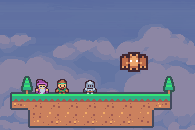
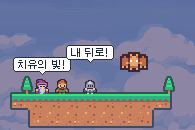
기획: 말풍선 대사, 기술 +3·+6·+9 추가 효과, '반드시 성공' 표시 제거
- 상황마다 기본 대사가 말풍선으로 저절로 뜨고, 상황별로 고치거나 끌 수 있음 (RP_교류.md 1-1, DialogueB)
- 전투·탐사 장면에 말풍선 예시
- 기술 레벨 +3/+6/+9마다 추가 효과 (장비_상세.md, 기술 시안)
- 확률이 없으므로 강화 화면의 '반드시 성공' 표시 삭제

Claude-Session: https://claude.ai/code/session_011wjmSW2J3FkWighjJoEfMG

Changed region(s): [[0.0615, 0.3385, 0.5846, 0.5846]]

diff --git a/기획/시안/화면/DialogueB.dc.html b/기획/시안/화면/DialogueB.dc.html
@@ -1,0 +1,125 @@
+<!doctype html>
+<html lang="ko">
+<head>
+<meta charset="utf-8">
+<title>B안 · 말풍선 대사</title>
+<script src="./support.js"></script>
+</head>
+<body>
+<x-dc>
+<helmet>
+<link rel="preconnect" href="https://fonts.googleapis.com">
+<link href="https://fonts.googleapis.com/css2?family=Gowun+Batang:wght@700&amp;family=Noto+Sans+KR:wght@400;500;700&amp;display=swap" rel="stylesheet">
+<style>
+@font-face{font-family:'Galmuri11';src:url(/_blob/3d7d41766d6fe4ab874aa2af55b7545e) format('woff2');font-weight:400;font-display:swap}@font-face{font-family:'Galmuri11';src:url(/_blob/8457e27020c70d82c86e28af69c16a56) format('woff2');font-weight:700;font-display:swap}@font-face{font-family:'Galmuri14';src:url(/_blob/b67fdc63fa51b5e3d8ffaa0aa94ab0fc) format('woff2');font-weight:100 900;font-display:swap}body{-webkit-font-smoothing:none}button,input,select,textarea{font-family:inherit}
+
+body{margin:0}
+a{color:#8CC4F5}a:hover{color:#B8DBFA}
+</style>
+</helmet>
+<div style="width: 390px; height: 844px; box-sizing: border-box; background: #10161F; font-family: 'Galmuri11', 'Noto Sans KR', system-ui, sans-serif; color: #E8EDF4; display: flex; flex-direction: column; overflow: hidden">
+  <header style="height: 52px; box-sizing: border-box; padding: 0 6px; display: flex; align-items: center; gap: 2px; border-bottom: 1px solid #263243">
+    <a href="SettingsB.dc.html" aria-label="뒤로" style="width: 44px; height: 44px; display: flex; align-items: center; justify-content: center; color: #E8EDF4">
+      <svg width="22" height="22" viewBox="0 0 24 24" fill="none" stroke="currentColor" stroke-width="2" aria-hidden="true"><path d="M15 5 L8 12 L15 19"></path></svg></a>
+    <span style="font-family: 'Galmuri14', 'Galmuri11', sans-serif; font-size: 19px; font-weight: 700">말풍선 대사</span>
+  </header>
+
+  <main style="flex: 1; padding: 12px 14px; display: flex; flex-direction: column; gap: 10px; overflow: hidden">
+    <div style="background: #151D29; border: 1px solid #263243; border-radius: 12px; padding: 0 14px">
+      <sc-for list="{{masters}}" as="m" hint-placeholder-count="2">
+        <button type="button" role="switch" aria-checked="{{m.on}}" onClick="{{m.flip}}" style="width: 100%; min-height: 48px; display: flex; justify-content: space-between; align-items: center; gap: 12px; border: none; border-top: {{m.line}}; background: transparent; color: #E8EDF4; text-align: left; padding: 4px 0; cursor: pointer">
+          <span style="font-size: 14px; white-space: nowrap">{{m.label}}</span>
+          <span aria-hidden="true" style="width: 44px; height: 26px; flex-shrink: 0; border-radius: 13px; background: {{m.track}}; position: relative"><span style="position: absolute; top: 3px; left: {{m.knob}}; width: 20px; height: 20px; border-radius: 10px; background: #FFFFFF"></span></span>
+        </button>
+      </sc-for>
+    </div>
+
+    <div role="tablist" aria-label="상황 묶음" style="display: grid; grid-template-columns: repeat(3, minmax(0, 1fr)); gap: 6px">
+      <sc-for list="{{tabs}}" as="t" hint-placeholder-count="3">
+        <button type="button" role="tab" aria-selected="{{t.on}}" onClick="{{t.pick}}" style="min-height: 40px; border-radius: 8px; border: 1px solid {{t.border}}; background: {{t.bg}}; color: #E8EDF4; font-size: 13px; font-weight: 700; cursor: pointer; white-space: nowrap">{{t.label}}</button>
+      </sc-for>
+    </div>
+
+    <section aria-label="대사 목록" style="background: #151D29; border: 1px solid #263243; border-radius: 12px; padding: 2px 12px; display: flex; flex-direction: column; flex: 1; overflow: hidden">
+      <sc-for list="{{rows}}" as="r" hint-placeholder-count="6">
+        <div style="border-bottom: 1px solid #263243; padding: 8px 0; display: flex; flex-direction: column; gap: 6px; opacity: {{r.dim}}">
+          <div style="display: flex; justify-content: space-between; align-items: center; gap: 8px">
+            <span style="display: flex; align-items: center; gap: 6px; min-width: 0">
+              <sc-if value="{{r.hasImg}}" hint-placeholder-val="{{ false }}"><img src="{{r.img}}" alt="" width="20" height="20" style="image-rendering: pixelated"></sc-if>
+              <span style="font-size: 13px; font-weight: 700; white-space: nowrap">{{r.when}}</span>
+              <sc-if value="{{r.edited}}" hint-placeholder-val="{{ false }}"><span style="font-size: 11px; color: #F3D08A; white-space: nowrap">고침</span></sc-if>
+            </span>
+            <button type="button" role="switch" aria-checked="{{r.on}}" aria-label="{{r.when}} 말풍선" onClick="{{r.flip}}" style="width: 44px; height: 26px; flex-shrink: 0; border: none; padding: 0; border-radius: 13px; background: {{r.track}}; position: relative; cursor: pointer"><span style="position: absolute; top: 3px; left: {{r.knob}}; width: 20px; height: 20px; border-radius: 10px; background: #FFFFFF"></span></button>
+          </div>
+          <input type="text" value="{{r.text}}" onChange="{{r.edit}}" maxlength="20" aria-label="{{r.when}} 대사" style="min-height: 38px; box-sizing: border-box; border-radius: 8px; border: 1px solid #3A4658; background: #1B2433; color: #E8EDF4; font-size: 13px; padding: 0 10px">
+        </div>
+      </sc-for>
+    </section>
+  </main>
+
+  <nav aria-label="주 메뉴" style="height: 64px; background: #151D29; border-top: 1px solid #263243; display: grid; grid-template-columns: repeat(5, minmax(0, 1fr))">
+    <a href="HomeB.dc.html" style="display: flex; flex-direction: column; align-items: center; justify-content: center; gap: 3px; font-size: 12px; color: #A7B3C2; text-decoration: none">
+      <svg width="22" height="22" viewBox="0 0 24 24" fill="none" stroke="currentColor" stroke-width="2" aria-hidden="true"><path d="M3 11 L12 4 L21 11"></path><path d="M5 10 V20 H19 V10"></path></svg>집</a>
+    <a href="ExpeditionB.dc.html" style="display: flex; flex-direction: column; align-items: center; justify-content: center; gap: 3px; font-size: 12px; color: #A7B3C2; text-decoration: none">
+      <svg width="22" height="22" viewBox="0 0 24 24" fill="none" stroke="currentColor" stroke-width="2" aria-hidden="true"><path d="M12 3 V15"></path><path d="M7 10 L12 15 L17 10"></path><path d="M4 20 H20"></path></svg>원정</a>
+    <a href="GearB.dc.html" style="display: flex; flex-direction: column; align-items: center; justify-content: center; gap: 3px; font-size: 12px; color: #A7B3C2; text-decoration: none">
+      <svg width="22" height="22" viewBox="0 0 24 24" fill="none" stroke="currentColor" stroke-width="2" aria-hidden="true"><path d="M12 3 L19 6 V12 C19 16 16 19 12 21 C8 19 5 16 5 12 V6 Z"></path></svg>장비</a>
+    <a href="SocialB.dc.html" style="display: flex; flex-direction: column; align-items: center; justify-content: center; gap: 3px; font-size: 12px; color: #A7B3C2; text-decoration: none">
+      <svg width="22" height="22" viewBox="0 0 24 24" fill="none" stroke="currentColor" stroke-width="2" aria-hidden="true"><circle cx="9" cy="8" r="3"></circle><path d="M3 19 C3 15 6 13 9 13 C12 13 15 15 15 19"></path><circle cx="17" cy="9" r="2.5"></circle><path d="M16 13.5 C19 13.5 21 15.5 21 19"></path></svg>교류</a>
+    <a href="#market" style="display: flex; flex-direction: column; align-items: center; justify-content: center; gap: 3px; font-size: 12px; color: #A7B3C2; text-decoration: none">
+      <svg width="22" height="22" viewBox="0 0 24 24" fill="none" stroke="currentColor" stroke-width="2" aria-hidden="true"><path d="M4 8 H20 L18 20 H6 Z"></path><path d="M9 8 V6 A3 3 0 0 1 15 6 V8"></path></svg>거래소</a>
+  </nav>
+</div>
+</x-dc>
+<script type="text/x-dc" data-dc-script data-props='{"$preview":{"width":390,"height":844}}'>
+class Component extends DCLogic {
+  constructor(props) {
+    super(props);
+    this.state = { tab: 'battle', mine: true, others: true, off: {}, text: {} };
+  }
+  renderVals() {
+    const B = '/_blob/';
+    const st = this.state;
+    const defs = {
+      battle: [
+        { id: 'start', when: '전투 시작', text: '가 보자!' },
+        { id: 'aim', when: '조준 사격', img: B + 'b133920c0637dd17a05b1e3b3be43417', text: '한 발이면 돼.' },
+        { id: 'rapid', when: '연사', img: B + '4f2083e560e2a0725ab09c4fc0b8cfa4', text: '쏟아 붓는다!' },
+        { id: 'pierce', when: '관통 화살', img: B + '4beb5d4ca18f0341931aa0c52f420782', text: '줄 서 있네?' },
+        { id: 'low', when: '생명력 30% 아래', text: '조금 위험해…' },
+        { id: 'healed', when: '치유를 받았을 때', text: '고마워!' },
+        { id: 'win', when: '이겼을 때', text: '다음 폭풍도 같이!' }
+      ],
+      explore: [
+        { id: 'go', when: '탐사 출발', text: '오늘은 어디까지?' },
+        { id: 'meet', when: '적을 만났을 때', text: '저기다!' },
+        { id: 'find', when: '좋은 장비를 찾았을 때', text: '이건 놓칠 수 없지.' },
+        { id: 'gate', when: '관문에 닿았을 때', text: '폭풍이 거세졌어.' }
+      ],
+      island: [
+        { id: 'hello', when: '손님이 왔을 때', text: '어서 와!' },
+        { id: 'visit', when: '남의 섬에 갔을 때', text: '실례할게요~' },
+        { id: 'bye', when: '섬을 떠날 때', text: '또 올게!' }
+      ]
+    };
+    const sw = (on) => ({ track: on ? '#3D86C6' : '#3A4658', knob: on ? '21px' : '3px' });
+    const rows = defs[st.tab].map((d) => {
+      const on = !st.off[d.id];
+      const txt = st.text[d.id] !== undefined ? st.text[d.id] : d.text;
+      return Object.assign({ when: d.when, img: d.img || '', hasImg: !!d.img, on: on, dim: on && st.mine ? '1' : '0.5',
+        text: txt, edited: txt !== d.text,
+        flip: () => { const o = Object.assign({}, st.off); o[d.id] = on; this.setState({ off: o }); },
+        edit: (e) => { const t = Object.assign({}, st.text); t[d.id] = e.target.value; this.setState({ text: t }); } }, sw(on));
+    });
+    const masters = [
+      Object.assign({ label: '내 말풍선 띄우기', on: st.mine, line: 'none', flip: () => this.setState({ mine: !st.mine }) }, sw(st.mine)),
+      Object.assign({ label: '다른 사람 말풍선 보기', on: st.others, line: '1px solid #263243', flip: () => this.setState({ others: !st.others }) }, sw(st.others))
+    ];
+    const tabs = [['battle', '전투'], ['explore', '탐사'], ['island', '섬']].map((x) => ({ label: x[1], on: st.tab === x[0],
+      border: st.tab === x[0] ? '#8CC4F5' : '#3A4658', bg: st.tab === x[0] ? '#1F3550' : 'transparent', pick: () => this.setState({ tab: x[0] }) }));
+    return { rows: rows, masters: masters, tabs: tabs };
+  }
+}
+</script>
+</body>
+</html>

diff --git a/기획/시안/화면/SkillsB.dc.html b/기획/시안/화면/SkillsB.dc.html
@@ -75,7 +75,11 @@ a{color:#8CC4F5}a:hover{color:#B8DBFA}
           <div style="display: flex; flex-direction: column; gap: 1px; flex: 1; min-width: 0">
             <span style="font-size: 14px; font-weight: 700">{{sk.name}} <span style="font-size: 12px; font-weight: 500; color: {{sk.lvColor}}">{{sk.lvText}}</span></span>
             <span style="font-size: 12px; color: #A7B3C2">{{sk.desc}}</span>
-            <span style="font-size: 12px; color: #8CC4F5">{{sk.source}}</span>
+            <span style="display: flex; gap: 4px; align-items: center; min-width: 0">
+              <sc-for list="{{sk.marks}}" as="mk" hint-placeholder-count="3"><span style="white-space: nowrap; font-size: 11px; padding: 0 6px; border-radius: 8px; border: 1px solid {{mk.border}}; background: {{mk.bg}}; color: {{mk.color}}">{{mk.label}}</span></sc-for>
+              <span style="font-size: 11px; color: #C8D3E6; white-space: nowrap; overflow: hidden; text-overflow: ellipsis">{{sk.next}}</span>
+            </span>
+            <span style="font-size: 12px; color: #8CC4F5; white-space: nowrap; overflow: hidden; text-overflow: ellipsis">{{sk.source}}</span>
           </div>
           <sc-if value="{{sk.learned}}" hint-placeholder-val="{{ true }}">
             <button type="button" onClick="{{sk.toggle}}" style="min-width: 60px; min-height: 44px; border-radius: 8px; border: 1px solid {{sk.btnBorder}}; background: {{sk.btnBg}}; color: #FFFFFF; font: inherit; font-size: 13px; cursor: pointer">{{sk.btnText}}</button>
@@ -115,7 +119,7 @@ class Component extends DCLogic {
     const st = { focus: P.focus };
     const setFocus = (f) => { const ps = st0.ps.map((x, i) => i === st0.cur ? Object.assign({}, x, { focus: f }) : x); this.setState({ ps: ps }); };
     const defs = [
-      { id: 'aim', name: '조준 사격', learnLv: 1, img: B + 'b133920c0637dd17a05b1e3b3be43417', lv: 3, desc: '한 대상에게 크게 한 발', source: '순풍의 목걸이 · 조준 사격 +2' },
+      { id: 'aim', name: '조준 사격', learnLv: 1, img: B + 'b133920c0637dd17a05b1e3b3be43417', lv: 4, desc: '한 대상에게 크게 한 발', source: '순풍의 목걸이 +2 · 물방울 귀걸이 +1' },
       { id: 'rapid', name: '연사', learnLv: 5, img: B + '4f2083e560e2a0725ab09c4fc0b8cfa4', lv: 2, desc: '빠르게 여러 발', source: '바람결 장궁 · 연사 +1 (보관함의 천둥새의 장궁에도 있음)' },
       { id: 'pierce', name: '관통 화살', learnLv: 10, img: B + '4beb5d4ca18f0341931aa0c52f420782', lv: 1, desc: '줄지어 선 적을 꿰뚫어요', source: '장비 +1 없음' },
       { id: 'rain', name: '화살비', learnLv: 15, img: B + '0ab31bf79cf405cb73f3ebf826178f62', lv: 1, desc: '여러 적에게 화살을 퍼부어요', source: '' },
@@ -129,6 +133,7 @@ class Component extends DCLogic {
     // 기술 칸: 키울 기술 먼저, 남는 칸은 레벨 높은 순(같으면 먼저 배운 순)
     const rest = learned.filter((d) => st.focus.indexOf(d.id) < 0).sort((x, y) => y.lv - x.lv || x.learnLv - y.learnLv);
     const slotIds = st.focus.concat(rest.map((d) => d.id)).slice(0, 3);
+    const MS = {"aim": ["방어 10% 무시", "옆 적에게도 절반", "다시 쓰기 1초 빠름"], "rapid": ["화살 1발 더", "마지막 발이 꿰뚫음", "쏜 뒤 공격 속도 +15%"], "pierce": ["꿰뚫는 수 +1", "꿰뚫을 때마다 피해 +10%", "다시 쓰기 1초 빠름"], "rain": ["범위 넓어짐", "맞은 적 느려짐", "화살비 한 번 더"], "weak": ["우두머리 피해 +10%", "약점 표시가 파티에 퍼짐", "표시 시간 2배"], "hawk": ["효과 시간 +2초", "파티 생명력도 조금", "다시 쓰기 2초 빠름"]};
     const skills = defs.map((d) => {
       const isL = myLv >= d.learnLv;
       const fi = st.focus.indexOf(d.id);
@@ -137,6 +142,8 @@ class Component extends DCLogic {
         lvText: isL ? ('Lv ' + d.lv + (d.lv > 1 ? ' (장비 +' + (d.lv - 1) + ')' : '') + (slotIds.indexOf(d.id) >= 0 ? ' · 기술 칸' : '')) : '',
         lvColor: d.lv > 1 ? '#6FD08C' : '#A7B3C2',
         source: isL ? d.source : '',
+        marks: [3, 6, 9].map((m, k) => { const got = isL && d.lv - 1 >= m; return { label: '+' + m, border: got ? '#E0A93B' : '#3A4658', bg: got ? '#5A4413' : 'transparent', color: got ? '#F3D08A' : '#A7B3C2' }; }),
+        next: (() => { const k = [3, 6, 9].findIndex((m) => d.lv - 1 < m); return k < 0 ? '추가 효과 모두 열림' : '+' + [3, 6, 9][k] + ' ' + MS[d.id][k] + ' (' + ([3, 6, 9][k] - (d.lv - 1)) + ' 남음)'; })(),
         btnText: fi >= 0 ? '★ 키우는 중' : '키우기', btnBg: fi >= 0 ? '#5A4413' : '#3D86C6', btnBorder: fi >= 0 ? '#E0A93B' : '#3D86C6',
         toggle: () => {
           const f = st.focus.slice();

diff --git a/기획/시안/화면/ExpeditionB.dc.html b/기획/시안/화면/ExpeditionB.dc.html
@@ -23,7 +23,7 @@ a{color:#8CC4F5}a:hover{color:#B8DBFA}
       <span style="font-family: 'Galmuri14', 'Galmuri11', sans-serif; font-size: 22px; font-weight: 700; color: #E8EDF4">원정</span>
       <span style="font-size: 13px; font-weight: 700; color: #E8EDF4; background: #1F3550; border-radius: 8px; padding: 2px 8px">전투력 1,054</span>
     </div></header>
-  <div role="img" aria-label="비구름 지대 23번째 구름층. 사냥꾼이 바위껍질 게와 마주쳤다" style="position: relative; height: 180px; overflow: hidden; display: flex; justify-content: center; align-items: flex-end; flex-shrink: 0; border-radius: 0px; background: #1B2636"><div aria-hidden="true" style="position: absolute; inset: -24px; background-image: url(/_blob/7b3101f79fbafb361778743c81a9150a); background-size: cover; background-position: center bottom; filter: blur(14px) brightness(0.8); image-rendering: auto"></div><img src="/_blob/7b3101f79fbafb361778743c81a9150a" alt="" width="390" height="260" style="position: relative; display: block; flex-shrink: 0; image-rendering: pixelated"></div>
+  <div role="img" aria-label="비구름 지대 23번째 구름층. 사냥꾼이 바위껍질 게와 마주쳤다" style="position: relative; height: 180px; overflow: hidden; display: flex; justify-content: center; align-items: flex-end; flex-shrink: 0; border-radius: 0px; background: #1B2636"><div aria-hidden="true" style="position: absolute; inset: -24px; background-image: url(/_blob/717042038f7402d38133887fac204dbc); background-size: cover; background-position: center bottom; filter: blur(14px) brightness(0.8); image-rendering: auto"></div><img src="/_blob/717042038f7402d38133887fac204dbc" alt="" width="390" height="260" style="position: relative; display: block; flex-shrink: 0; image-rendering: pixelated"></div>
   <div role="tablist" style="display: grid; grid-template-columns: repeat(2, minmax(0, 1fr)); background: #151D29">
       <button type="button" role="tab" aria-selected="{{isScout}}" onClick="{{toScout}}" style="min-height: 46px; border: none; border-bottom: 3px solid {{scoutLine}}; background: transparent; font: inherit; font-size: 15px; font-weight: 700; color: {{scoutColor}}; cursor: pointer">탐사</button>
       <button type="button" role="tab" aria-selected="{{isDungeon}}" onClick="{{toDungeon}}" style="min-height: 46px; border: none; border-bottom: 3px solid {{dungeonLine}}; background: transparent; font: inherit; font-size: 15px; font-weight: 700; color: {{dungeonColor}}; cursor: pointer">던전</button>

diff --git a/기획/시안/화면/SettingsB.dc.html b/기획/시안/화면/SettingsB.dc.html
@@ -35,6 +35,7 @@ a{color:#8CC4F5}a:hover{color:#B8DBFA}
         <a href="PixelEditorB.dc.html" style="min-height: 48px; display: flex; justify-content: space-between; align-items: center; color: #E8EDF4; text-decoration: none; font-size: 14px"><span>도트 캐릭터 <span style="font-size: 12px; color: #A7B3C2">집·탐사·중계에 보여요</span></span><span style="color: #8CC4F5; font-size: 13px">그리기</span></a>
         <label style="min-height: 48px; display: flex; justify-content: space-between; align-items: center; font-size: 14px; border-top: 1px solid #263243; cursor: pointer"><span>프로필 그림 <span style="font-size: 12px; color: #A7B3C2">정사각형 · 그림 그대로</span></span><span style="color: #8CC4F5; font-size: 13px">파일 올리기</span><input type="file" accept="image/*" style="position: absolute; width: 1px; height: 1px; opacity: 0"></label>
         <label style="min-height: 48px; display: flex; justify-content: space-between; align-items: center; font-size: 14px; border-top: 1px solid #263243; cursor: pointer"><span>스탠딩 일러스트 <span style="font-size: 12px; color: #A7B3C2">세로 그림 · 장비 탭에 상반신이 보여요</span></span><span style="color: #8CC4F5; font-size: 13px">파일 올리기</span><input type="file" accept="image/*" style="position: absolute; width: 1px; height: 1px; opacity: 0"></label>
+        <a href="DialogueB.dc.html" style="min-height: 48px; display: flex; justify-content: space-between; align-items: center; color: #E8EDF4; text-decoration: none; font-size: 14px; border-top: 1px solid #263243"><span>말풍선 대사 <span style="font-size: 12px; color: #A7B3C2">상황마다 저절로 떠요</span></span><span style="color: #8CC4F5; font-size: 13px; white-space: nowrap">고치기</span></a>
         <span style="font-size: 12px; color: #A7B3C2; padding: 6px 0 8px; border-top: 1px solid #263243">내가 그렸거나 쓸 권리가 있는 그림만 올릴 수 있어요.</span>
       </div>
     </section>

diff --git a/기획/시안/화면/BattlePCB.dc.html b/기획/시안/화면/BattlePCB.dc.html
@@ -49,7 +49,7 @@ a{color:#8CC4F5}a:hover{color:#B8DBFA}
         <span style="font-size: 12px; color: #F3D08A">노란 선 = 지난 도전 기록 (4% 남김)</span>
       </section>
 
-      <div role="img" aria-label="보스 방. 앞줄 전사, 뒷줄 사냥꾼과 마법사가 돌개바람 수리와 싸운다" style="position: relative; height: 390px; overflow: hidden; display: flex; justify-content: center; align-items: flex-end; flex-shrink: 0; border-radius: 12px; background: #1B2636"><div aria-hidden="true" style="position: absolute; inset: -24px; background-image: url(/_blob/424567fead96b71ddbf13969cda548c5); background-size: cover; background-position: center bottom; filter: blur(14px) brightness(0.8); image-rendering: auto"></div><img src="/_blob/424567fead96b71ddbf13969cda548c5" alt="" width="585" height="390" style="position: relative; display: block; flex-shrink: 0; image-rendering: pixelated"></div>
+      <div role="img" aria-label="보스 방. 앞줄 전사, 뒷줄 사냥꾼과 마법사가 돌개바람 수리와 싸운다" style="position: relative; height: 390px; overflow: hidden; display: flex; justify-content: center; align-items: flex-end; flex-shrink: 0; border-radius: 12px; background: #1B2636"><div aria-hidden="true" style="position: absolute; inset: -24px; background-image: url(/_blob/d986306279039ea531c93ec4598877a5); background-size: cover; background-position: center bottom; filter: blur(14px) brightness(0.8); image-rendering: auto"></div><img src="/_blob/d986306279039ea531c93ec4598877a5" alt="" width="585" height="390" style="position: relative; display: block; flex-shrink: 0; image-rendering: pixelated"></div>
 
       <section aria-label="파티원" style="display: grid; grid-template-columns: repeat(3, minmax(0, 1fr)); gap: 12px">
         <div style="background: #151D29; border: 1px solid #263243; border-radius: 12px; padding: 10px 12px; display: flex; gap: 10px; align-items: center">

diff --git a/기획/시안/화면/BattleB.dc.html b/기획/시안/화면/BattleB.dc.html
@@ -24,7 +24,7 @@ a{color:#8CC4F5}a:hover{color:#B8DBFA}
     <span style="font-size: 13px; color: #A7B3C2">{{clock}}</span>
   </header>
 
-  <div role="img" aria-label="보스 방. 앞줄 전사, 뒷줄 사냥꾼과 마법사가 돌개바람 수리와 싸운다" style="position: relative; height: 210px; overflow: hidden; display: flex; justify-content: center; align-items: flex-end; flex-shrink: 0; border-radius: 0px; background: #1B2636"><div aria-hidden="true" style="position: absolute; inset: -24px; background-image: url(/_blob/424567fead96b71ddbf13969cda548c5); background-size: cover; background-position: center bottom; filter: blur(14px) brightness(0.8); image-rendering: auto"></div><img src="/_blob/424567fead96b71ddbf13969cda548c5" alt="" width="390" height="260" style="position: relative; display: block; flex-shrink: 0; image-rendering: pixelated"></div>
+  <div role="img" aria-label="보스 방. 앞줄 전사, 뒷줄 사냥꾼과 마법사가 돌개바람 수리와 싸운다" style="position: relative; height: 210px; overflow: hidden; display: flex; justify-content: center; align-items: flex-end; flex-shrink: 0; border-radius: 0px; background: #1B2636"><div aria-hidden="true" style="position: absolute; inset: -24px; background-image: url(/_blob/d986306279039ea531c93ec4598877a5); background-size: cover; background-position: center bottom; filter: blur(14px) brightness(0.8); image-rendering: auto"></div><img src="/_blob/d986306279039ea531c93ec4598877a5" alt="" width="390" height="260" style="position: relative; display: block; flex-shrink: 0; image-rendering: pixelated"></div>
 
   <section aria-label="생명력" style="padding: 10px 14px; display: flex; flex-direction: column; gap: 8px; background: #151D29; border-bottom: 1px solid #263243">
     <div style="display: flex; flex-direction: column; gap: 4px">

diff --git a/기획/시안/화면/ExpeditionPCB.dc.html b/기획/시안/화면/ExpeditionPCB.dc.html
@@ -52,7 +52,7 @@ a{color:#8CC4F5}a:hover{color:#B8DBFA}
     </nav>
 
     <main style="flex: 999 1 560px; min-width: 0; display: flex; flex-wrap: wrap; gap: 20px; align-items: flex-start">
-      <div role="img" aria-label="비구름 지대 23번째 구름층. 사냥꾼이 바위껍질 게와 마주쳤다" style="position: relative; height: 390px; overflow: hidden; display: flex; justify-content: center; align-items: flex-end; flex-shrink: 0; flex: 1 1 100%; border-radius: 12px; background: #1B2636"><div aria-hidden="true" style="position: absolute; inset: -24px; background-image: url(/_blob/7b3101f79fbafb361778743c81a9150a); background-size: cover; background-position: center bottom; filter: blur(14px) brightness(0.8); image-rendering: auto"></div><img src="/_blob/7b3101f79fbafb361778743c81a9150a" alt="" width="585" height="390" style="position: relative; display: block; flex-shrink: 0; image-rendering: pixelated"></div>
+      <div role="img" aria-label="비구름 지대 23번째 구름층. 사냥꾼이 바위껍질 게와 마주쳤다" style="position: relative; height: 390px; overflow: hidden; display: flex; justify-content: center; align-items: flex-end; flex-shrink: 0; flex: 1 1 100%; border-radius: 12px; background: #1B2636"><div aria-hidden="true" style="position: absolute; inset: -24px; background-image: url(/_blob/717042038f7402d38133887fac204dbc); background-size: cover; background-position: center bottom; filter: blur(14px) brightness(0.8); image-rendering: auto"></div><img src="/_blob/717042038f7402d38133887fac204dbc" alt="" width="585" height="390" style="position: relative; display: block; flex-shrink: 0; image-rendering: pixelated"></div>
 
 
       <section aria-label="탐사" style="flex: 3 1 420px; min-width: 0; display: flex; flex-direction: column; gap: 14px">

diff --git a/기획/시안/화면/ForgeB.dc.html b/기획/시안/화면/ForgeB.dc.html
@@ -59,7 +59,6 @@ a{color:#8CC4F5}a:hover{color:#B8DBFA}
       <article style="background: #151D29; border: 1px solid #263243; border-radius: 12px; padding: 14px; display: flex; flex-direction: column; gap: 10px">
         <div style="display: flex; justify-content: space-between; align-items: center">
           <span style="font-size: 17px; font-weight: 700">{{cur.part}} 칸 {{cur.lv}} → {{cur.next}}</span>
-          <span style="font-size: 12px; font-weight: 700; color: #10161F; background: #6FD08C; border-radius: 6px; padding: 2px 8px">반드시 성공</span>
         </div>
         <div style="display: flex; flex-direction: column; gap: 4px; font-size: 14px">
           <span>기본 능력치 <span style="color: #6FD08C; font-weight: 700">+10%</span> 더 오름</span>

diff --git a/기획/시안/장면/make2.py b/기획/시안/장면/make2.py
@@ -46,6 +46,20 @@ def tag(s,text,cx,y,bg=(16,22,31,215),fg=(255,255,255,255)):
     x=int(cx-w/2); d.rectangle((x,y,x+w-1,y+h-1),fill=bg)
     d.text((x+3-l,y+1),text,font=FONT,fill=fg)
     s.alpha_composite(lay)
+def bubble(s,text,cx,bottom_y):
+    """말풍선: 꼬리 끝이 (cx, bottom_y)에 닿는다. 글자는 갈무리9 1배."""
+    l,tp,r,b=FONT.getbbox(text); w=r-l+8; h=13
+    lay=Image.new('RGBA',s.size,(0,0,0,0)); d=ImageDraw.Draw(lay); d.fontmode='1'
+    x=int(cx-w/2); y=bottom_y-h-3
+    edge=(43,49,66,255); fill=(255,255,255,255)
+    d.rectangle((x+1,y,x+w-2,y+h-1),fill=fill); d.rectangle((x,y+1,x+w-1,y+h-2),fill=fill)
+    d.line((x+1,y-1,x+w-2,y-1),fill=edge); d.line((x+1,y+h,x+w-2,y+h),fill=edge)
+    d.line((x-1,y+1,x-1,y+h-2),fill=edge); d.line((x+w,y+1,x+w,y+h-2),fill=edge)
+    d.point([(x,y),(x+w-1,y),(x,y+h-1),(x+w-1,y+h-1)],fill=edge)
+    d.polygon([(cx-2,y+h),(cx+2,y+h),(cx,y+h+2)],fill=fill); d.point([(cx-3,y+h),(cx+3,y+h)],fill=edge)
+    d.line((cx-2,y+h+1,cx-1,y+h+2),fill=edge); d.line((cx+2,y+h+1,cx+1,y+h+2),fill=edge); d.point((cx,y+h+3),fill=edge)
+    d.text((x+4-l,y+1),text,font=FONT,fill=(27,39,53,255))
+    s.alpha_composite(lay)
 OUT='scenes/'
 def home_island(s, gy=92):
     put(s, island(3,1), 6, 44); put(s, island(3,1), 160, 34); put(s, island(9,2), 16, gy)
@@ -61,12 +75,13 @@ stand(s,spr('knight'),78,G); stand(s,spr('ranger'),98,G); stand(s,spr('wizard'),
 # 3 탐사 (비구름 지대, 사냥꾼과 게)
 s=base(sat=0.55,dark=0.85); put(s, island(3,1,'snow'), 152, 40); put(s, island(7,2,'snow'), 30, G)
 prop(s,126,46,G); prop(s,126,136,G)
-stand(s,spr('ranger'),76,G); stand(s,spr('crab'),104,G,flip=True); s.save(OUT+'s_explore.png')
+stand(s,spr('ranger'),76,G); stand(s,spr('crab'),104,G,flip=True); bubble(s,'게다!',84,G-18); s.save(OUT+'s_explore.png')
 # 4 보스전 (폭풍의 벽)
 s=base(tint=(88,70,150,120),dark=0.8); put(s, island(9,2), 10, G)
 prop(s,126,18,G); prop(s,126,160,G)
 stand(s,spr('wizard'),34,G); stand(s,spr('ranger'),54,G); stand(s,spr('knight'),82,G)
 boss=spr('bat'); boss=boss.resize((boss.width*2,boss.height*2),Image.NEAREST); put(s,boss,118,46)
+bubble(s,'치유의 빛!',42,G-18); bubble(s,'내 뒤로!',90,G-30)
 s.save(OUT+'s_battle.png')
 # 5 결과 (폭풍이 걷힌 하늘)
 s=base(); put(s, island(9,2), 10, G); prop(s,126,18,G); prop(s,111,150,G); prop(s,126,168,G)

diff --git a/기획/RP_교류.md b/기획/RP_교류.md
@@ -17,20 +17,21 @@
 
 우리 게임의 특징은 자동 탐사, 중계 재생, 직접 그린 도트 캐릭터다. RP도 이 세 가지에 붙인다.
 
-### 1-1. 모험가 대사
+### 1-1. 말풍선 대사 (사용자 확정 2026-11-01, 세부는 제안)
 
-- 프로필에서 내 캐릭터의 **대사 몇 줄**을 정해 둔다. 상황은 출발, 큰 발견, 위기, 승리, 패배 다섯 가지다. 각 한 줄, 최대 40자.
-- 탐사 일지와 던전 중계 일지에 이 대사가 **캐릭터의 말로 섞여 나온다.** 예:
+사용자 방향: 채팅을 치지 않아도 **상황마다 말풍선이 저절로 뜬다.** 빠른 채팅처럼, 치유를 하면 치유에 맞는 대사가 나온다. 대사는 **고칠 수 있고, 끌 수도 있다.**
 
-```text
-0:38  돌개바람 수리가 분노했다 (생명력 50%)
-0:39  [레아] "바람이 거칠어. 다들 내 뒤로!"
-0:52  모험가들이 돌개바람 수리를 쓰러뜨렸다
-0:53  [노을] "다음 폭풍도 같이 넘자."
-```
-
-- 파티원끼리 접속 시간이 달라도, 함께 간 중계에 서로의 대사가 남는다. 시간을 맞추지 않고 하는 RP다.
-- 대사를 정하지 않은 사람은 아무것도 나오지 않는다. 기본 대사를 대신 넣지 않는다.
+- **기본 대사가 있다.** 직업·기술마다 기본 대사를 넣어 두므로 아무것도 안 해도 말풍선이 뜬다.
+- **상황 묶음:**
+  - 전투: 전투 시작, 기술마다(예: 치유, 연사), 생명력 30% 아래, 치유를 받았을 때, 이겼을 때, 졌을 때
+  - 탐사: 출발, 적을 만났을 때, 좋은 장비를 찾았을 때, 관문에 닿았을 때
+  - 섬: 손님이 왔을 때, 남의 섬에 갔을 때, 섬을 떠날 때
+- **고치기:** 상황마다 한 줄, 최대 20자. 고친 줄에는 "고침" 표시. 금칙어 거름과 신고 대상(4장).
+- **끄기:** 상황마다 끌 수 있고, "내 말풍선 띄우기"로 한꺼번에 끈다. 보는 쪽에서도 "다른 사람 말풍선 보기"를 끌 수 있다.
+- **보이는 곳:** 탐사 장면, 던전·큰 토벌 중계, 섬. 말풍선은 장면 그림과 같은 배율로 캐릭터 머리 위에 붙는다. 중계 일지에도 한 줄로 남는다(예: `0:39 [레아] "바람이 거칠어. 다들 내 뒤로!"`).
+- **너무 자주 뜨지 않게:** 한 캐릭터당 몇 초에 하나(제안: 4초), 같은 기술 대사는 한 전투에 최대 2번.
+- 시간을 맞추지 않아도 되는 RP라는 점은 그대로다. 파티원끼리 접속 시간이 달라도 함께 간 중계에 서로의 말이 남는다.
+- 화면 시안: `DialogueB`(설정 → 내 모습 → 말풍선 대사), 전투·탐사 장면의 말풍선.
 
 ### 1-2. 일지에 한마디
 
@@ -108,7 +109,7 @@
 | 모험가 소개 | 자유 글, 최대 300자 |
 | RP 성향 | 환영 / 가끔 / 안 함 중 하나. 쉼터와 파티 모집에 작은 표시로 보인다 |
 | 성격 태그 | 다정함, 무뚝뚝함, 장난꾸러기, 진지함 등 몇 개 중 최대 3개 |
-| 모험가 대사 | 1-1의 다섯 상황 대사 |
+| 말풍선 대사 | 1-1의 상황별 대사 |
 | 모험 수첩 | 1-2에서 덧붙인 글 모음 |
 
 ## 3. 대화 채널 (제안)
@@ -157,3 +158,4 @@
 - 2026-11-01: 사용자 의견(강한 사람이 버스를 태워 줄 수 있지 않나)에 따라 함께 탐사 규칙을 바꿨다. 가장 깊은 동행의 층에서 탐사하고, 낮은 층 모험가는 자기 층 +10층까지 그 층 보상을 받는다. 구름층 진행과 관문은 계속 각자의 것이다.
 - 2026-11-01: 사용자 지적(기간을 정하면 다시 걸어야 한다)에 따라 함께 탐사의 기간 선택을 없앴다. 동행은 그만둘 때까지 계속되고, 7일 미접속 시 자동으로 빠진다.
 - 2026-11-01: 사용자 방향에 따라 파티 초대·모임을 섬 초대로 합치고(1-7), 교류 탭을 추가했다(1-8).
+- 2026-11-01: 모험가 대사를 "말풍선 대사"로 바꿨다. 기본 대사가 있어 저절로 뜨고, 상황마다 고치거나 끌 수 있다(사용자 방향).

diff --git a/기획/장비_상세.md b/기획/장비_상세.md
@@ -56,6 +56,17 @@
 - 기술 레벨은 기본 1이고, 낀 장비들의 '기술 +1'을 모두 더해서 오른다. 장비를 빼면 다시 내려간다.
 - 한 기술의 상한은 **+10(기술 레벨 11)**으로 올린다(제안, 2026-11-01. 칸이 10개로 늘고 옵션 폭이 커졌기 때문). 상한을 넘는 몫은 표시만 하고 적용하지 않는다. 기술 레벨 1당 기여 +10%이므로 상한이면 그 기술의 몫이 2배가 된다. **수치는 검산 필요.**
 - 기술 레벨 1당 그 기술의 기여가 10% 오른다. 오른 기술이 전투에서 쓰일 때 효과가 난다(기술 칸 3개에 끼운 기술이 전투에서 쓰인다).
+- **추가 효과 (사용자 확정 2026-11-01, 수치는 제안):** 기술 레벨이 **+3, +6, +9**에 닿을 때마다 그 기술에 추가 효과가 하나씩 열린다(상한 +10이므로 셋). 숫자만 오르는 것이 아니라 기술의 모양이 바뀌어, 키울 기술을 고르는 이유가 된다. 추가 효과도 전투력 계산에 들어간다. 예:
+
+| 기술 | +3 | +6 | +9 |
+| --- | --- | --- | --- |
+| 연사 | 화살 1발 더 | 마지막 발이 꿰뚫음 | 쏜 뒤 공격 속도 +15% |
+| 조준 사격 | 방어 10% 무시 | 옆 적에게도 절반 | 다시 쓰기 1초 빠름 |
+| 관통 화살 | 꿰뚫는 수 +1 | 꿰뚫을 때마다 피해 +10% | 다시 쓰기 1초 빠름 |
+| 치유(마법사) | 남는 치유는 보호막 | 둘에게 나눠 치유 | 치유받은 동료 받는 피해 −10% (3초) |
+| 방패 막기(전사) | 막는 양 +10% | 막을 때 옆 동료도 조금 | 막은 뒤 반격 |
+
+  운 요소가 없으므로 "확률로 터진다" 같은 효과는 넣지 않는다. 직업별 전체 목록은 직업 상세 작업 때 채운다.
 - 기술 칸은 자동 장착이다. **키울 기술**(4장)을 먼저 끼우고, 남는 칸은 기술 레벨이 높은 기술로 채운다. 장비를 바꾸면 기술 칸도 알아서 다시 맞춘다.
 
 ## 4. 자동 장착과 표시
@@ -145,7 +156,7 @@
 
 - **강화는 장비가 아니라 칸(부위)에 한다.** 무기 칸 +3이면, 무기를 새것으로 바꿔도 +3이 그대로 남는다. 자동 장착으로 장비가 자주 바뀌어도 강화가 사라지지 않는다.
 - 단계는 +0부터 +10까지다. 1단계마다 그 칸에 낀 장비의 기본 능력치가 10% 오른다. 추가옵션은 강화의 영향을 받지 않는다.
-- **반드시 성공한다.** 실패, 단계 하락, 파괴가 없다.
+- 실패, 단계 하락, 파괴가 없다. 애초에 확률이 없으므로 화면에 "반드시 성공" 같은 표시는 하지 않는다(사용자 지적 2026-11-01).
 - 비용은 골드와 **하늘돌**이다. 단계가 오를수록 많이 든다. 구체적인 양은 전체 수치 조정 때 정한다.
 - 자동 관리 항목 **"골드와 하늘돌이 모이면 자동 강화"**를 둔다. 켜 두면 가장 낮은 단계의 칸부터 올린다. 기본값은 켜짐이다.
 
@@ -196,3 +207,4 @@
 - 2026-11-01: 사용자 제안에 따라 "키울 기술"을 추가했다. 자동 장착과 기술 칸, ▲ 표시, 전투력 계산이 모두 키울 기술과 지금 기술 칸 기준을 따른다.
 - 2026-11-01: 사용자 확정에 따라 키울 기술 프리셋(혼자/파티, 쓰는 곳별 자동 전환)을 추가했다.
 - 2026-11-01: 사용자 지적에 따라 기술 레벨 옵션을 등급별 폭(고급 +1, 희귀 +1~2, 영웅 +1~3, 전설 +2~4)으로 바꾸고, 기술 레벨 상한을 +10으로 올렸다(제안).
+- 2026-11-01: 기술 +3·+6·+9 추가 효과를 넣고, 강화 화면의 "반드시 성공" 표시를 없앴다(사용자 의견).
